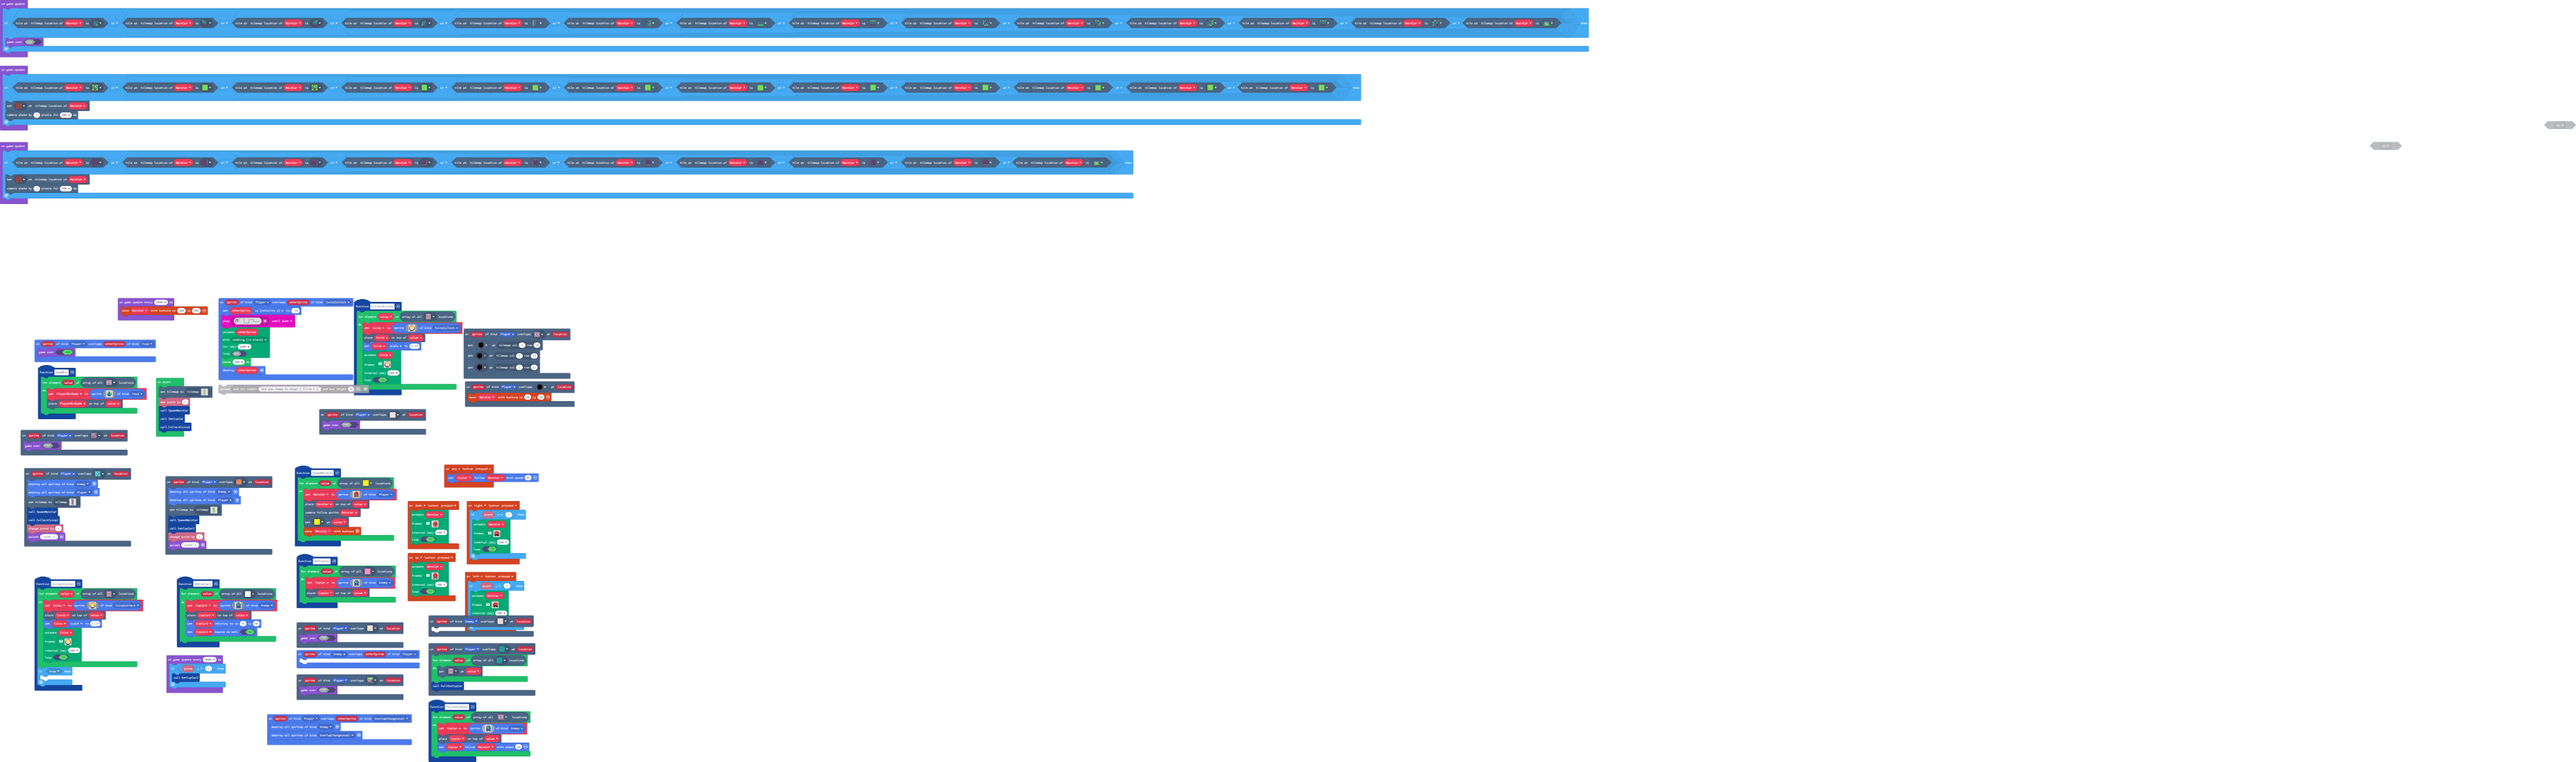
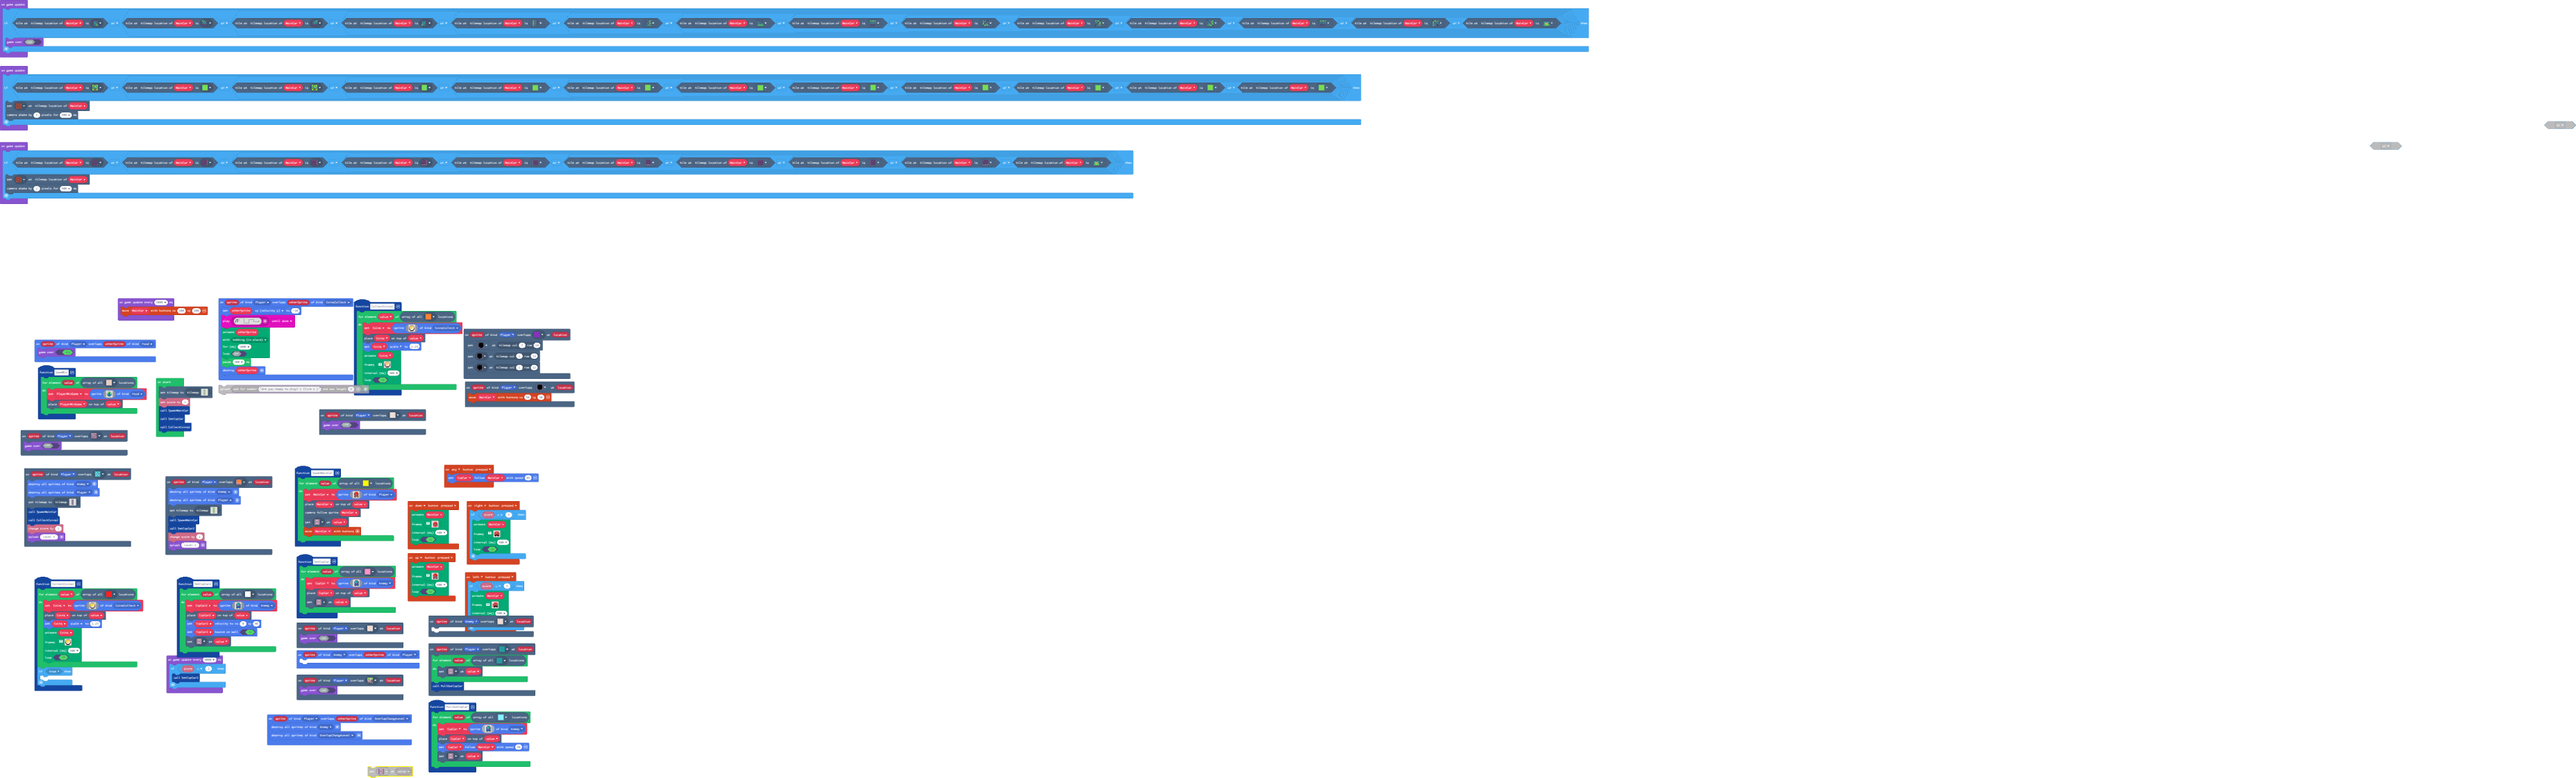
Update main.blocks, main.ts, tilemap.g.jres, tilemap.g.ts

Changed region(s): [[0.0, 0.3716, 0.248, 1.0], [0.0, 0.031, 0.6199, 0.2787], [0.9919, 0.1548, 1.0, 0.1858]]

diff --git a/tilemap.g.ts b/tilemap.g.ts
@@ -23,8 +23,6 @@ namespace myTiles {
     //% fixedInstance jres blockIdentity=images._tile
     export const tile11 = image.ofBuffer(hex``);
     //% fixedInstance jres blockIdentity=images._tile
-    export const tile13 = image.ofBuffer(hex``);
-    //% fixedInstance jres blockIdentity=images._tile
     export const tile15 = image.ofBuffer(hex``);
     //% fixedInstance jres blockIdentity=images._tile
     export const tile18 = image.ofBuffer(hex``);
@@ -39,23 +37,13 @@ namespace myTiles {
     //% fixedInstance jres blockIdentity=images._tile
     export const tile23 = image.ofBuffer(hex``);
     //% fixedInstance jres blockIdentity=images._tile
-    export const tile22 = image.ofBuffer(hex``);
-    //% fixedInstance jres blockIdentity=images._tile
     export const tile21 = image.ofBuffer(hex``);
-    //% fixedInstance jres blockIdentity=images._tile
-    export const tile24 = image.ofBuffer(hex``);
     //% fixedInstance jres blockIdentity=images._tile
     export const tile27 = image.ofBuffer(hex``);
     //% fixedInstance jres blockIdentity=images._tile
     export const tile28 = image.ofBuffer(hex``);
     //% fixedInstance jres blockIdentity=images._tile
     export const tile29 = image.ofBuffer(hex``);
-    //% fixedInstance jres blockIdentity=images._tile
-    export const tile30 = image.ofBuffer(hex``);
-    //% fixedInstance jres blockIdentity=images._tile
-    export const tile31 = image.ofBuffer(hex``);
-    //% fixedInstance jres blockIdentity=images._tile
-    export const tile32 = image.ofBuffer(hex``);
     //% fixedInstance jres blockIdentity=images._tile
     export const tile25 = image.ofBuffer(hex``);
     //% fixedInstance jres blockIdentity=images._tile
@@ -72,6 +60,18 @@ namespace myTiles {
     export const tile10 = image.ofBuffer(hex``);
     //% fixedInstance jres blockIdentity=images._tile
     export const tile14 = image.ofBuffer(hex``);
+    //% fixedInstance jres blockIdentity=images._tile
+    export const tile13 = image.ofBuffer(hex``);
+    //% fixedInstance jres blockIdentity=images._tile
+    export const tile22 = image.ofBuffer(hex``);
+    //% fixedInstance jres blockIdentity=images._tile
+    export const tile24 = image.ofBuffer(hex``);
+    //% fixedInstance jres blockIdentity=images._tile
+    export const tile30 = image.ofBuffer(hex``);
+    //% fixedInstance jres blockIdentity=images._tile
+    export const tile31 = image.ofBuffer(hex``);
+    //% fixedInstance jres blockIdentity=images._tile
+    export const tile32 = image.ofBuffer(hex``);
 
     helpers._registerFactory("tilemap", function(name: string) {
         switch(helpers.stringTrim(name)) {
@@ -132,6 +132,47 @@ namespace myTiles {
 . . . . . . . . . . . . . . . . 
 . . . . . . . . . . . . . . . . 
 `, [myTiles.transparency16], TileScale.Sixteen);
+            case "level4":
[1 lines of base64/hex data omitted]
+.............
+.............
+.............
+.............
+.............
+.............
+.............
+.............
+.............
+.............
+.............
+.............
+.............
+.............
+.............
+.............
+.............
+.............
+.............
+.............
+.............
+.............
+.............
+.............
+.............
+.............
+.............
+.............
+.............
+.............
+.............
+.............
+.............
+.............
+.............
+.............
+.............
+.............
+`, [myTiles.transparency16,myTiles.tile4,myTiles.tile6,myTiles.tile8,myTiles.tile9,myTiles.tile15,myTiles.tile26,myTiles.tile1,myTiles.tile3,sprites.skillmap.islandTile5,sprites.skillmap.islandTile3,sprites.skillmap.islandTile1,sprites.skillmap.islandTile4,myTiles.tile28,myTiles.tile31,myTiles.tile33,myTiles.tile14,myTiles.tile10,myTiles.tile12], TileScale.Sixteen);
             case "level1":
[1 lines of base64/hex data omitted]
 ............
@@ -213,48 +254,7 @@ namespace myTiles {
 ..........
 ..........
 ..........
-`, [myTiles.transparency16,sprites.vehicle.roadVertical,sprites.vehicle.roadHorizontal,sprites.skillmap.islandTile1,sprites.skillmap.islandTile4,sprites.skillmap.islandTile3,sprites.skillmap.islandTile5,myTiles.tile1,sprites.builtin.brick,myTiles.tile3,myTiles.tile4,myTiles.tile6,myTiles.tile8,myTiles.tile9,myTiles.tile10,myTiles.tile13,myTiles.tile14,myTiles.tile15,myTiles.tile16,myTiles.tile17,myTiles.tile20,myTiles.tile22,myTiles.tile24,myTiles.tile25,myTiles.tile31,myTiles.tile33,myTiles.tile5], TileScale.Sixteen);
-            case "level4":
[1 lines of base64/hex data omitted]
-.............
-.............
-.............
-.............
-.............
-.............
-.............
-.............
-.............
-.............
-.............
-.............
-.............
-.............
-.............
-.............
-.............
-.............
-.............
-.............
-.............
-.............
-.............
-.............
-.............
-.............
-.............
-.............
-.............
-.............
-.............
-.............
-.............
-.............
-.............
-.............
-.............
-.............
-`, [myTiles.transparency16,myTiles.tile4,myTiles.tile6,myTiles.tile8,myTiles.tile9,myTiles.tile15,myTiles.tile26,myTiles.tile1,myTiles.tile3,sprites.skillmap.islandTile5,sprites.skillmap.islandTile3,sprites.skillmap.islandTile1,sprites.skillmap.islandTile4,myTiles.tile28,myTiles.tile31,myTiles.tile33,myTiles.tile14,myTiles.tile10,myTiles.tile12], TileScale.Sixteen);
+`, [myTiles.transparency16,sprites.vehicle.roadVertical,sprites.vehicle.roadHorizontal,sprites.skillmap.islandTile1,sprites.skillmap.islandTile4,sprites.skillmap.islandTile3,sprites.skillmap.islandTile5,myTiles.tile1,sprites.builtin.brick,myTiles.tile3,myTiles.tile4,myTiles.tile6,myTiles.tile8,myTiles.tile9,myTiles.tile10,myTiles.tile13,myTiles.tile14,myTiles.tile15,myTiles.tile16,myTiles.tile17,myTiles.tile20,myTiles.tile22,myTiles.tile24,myTiles.tile25,myTiles.tile31,myTiles.tile33,myTiles.tile5,myTiles.tile32], TileScale.Sixteen);
         }
         return null;
     })
@@ -282,8 +282,6 @@ namespace myTiles {
             case "tile5":return tile5;
             case "myTile9":
             case "tile11":return tile11;
-            case "CopCarPullOut":
-            case "tile13":return tile13;
             case "myTile13":
             case "tile15":return tile15;
             case "myTile11":
@@ -298,24 +296,14 @@ namespace myTiles {
             case "tile20":return tile20;
             case "myTile17":
             case "tile23":return tile23;
-            case "myTile16":
-            case "tile22":return tile22;
             case "myTile15":
             case "tile21":return tile21;
-            case "myTile18":
-            case "tile24":return tile24;
             case "myTile21":
             case "tile27":return tile27;
             case "myTile22":
             case "tile28":return tile28;
             case "myTile23":
             case "tile29":return tile29;
-            case "myTile24":
-            case "tile30":return tile30;
-            case "myTile25":
-            case "tile31":return tile31;
-            case "myTile26":
-            case "tile32":return tile32;
             case "myTile19":
             case "tile25":return tile25;
             case "myTile27":
@@ -332,6 +320,18 @@ namespace myTiles {
             case "tile10":return tile10;
             case "EnemyOverlap1":
             case "tile14":return tile14;
+            case "CopCarPullOut":
+            case "tile13":return tile13;
+            case "myTile16":
+            case "tile22":return tile22;
+            case "myTile18":
+            case "tile24":return tile24;
+            case "myTile24":
+            case "tile30":return tile30;
+            case "myTile25":
+            case "tile31":return tile31;
+            case "myTile26":
+            case "tile32":return tile32;
         }
         return null;
     })

diff --git a/main.ts b/main.ts
@@ -172,6 +172,7 @@ function PullOutCopCar () {
             `, SpriteKind.Enemy)
         tiles.placeOnTile(CopCar, value)
         CopCar.follow(MainCar, 50)
+        tiles.setTileAt(value, sprites.vehicle.roadVertical)
     }
 }
 controller.down.onEvent(ControllerButtonEvent.Pressed, function () {
@@ -298,6 +299,7 @@ function SetCopCar2 () {
         tiles.placeOnTile(CopCar2, value)
         CopCar2.setVelocity(0, 40)
         CopCar2.setBounceOnWall(true)
+        tiles.setTileAt(value, sprites.vehicle.roadVertical)
     }
 }
 function GameWin () {
@@ -426,6 +428,7 @@ function SetCopCar () {
             . . . . f f . . . . . . f f . . 
             `, SpriteKind.Enemy)
         tiles.placeOnTile(CopCar, value)
+        tiles.setTileAt(value, sprites.vehicle.roadVertical)
     }
 }
 function SpawnMainCar () {
@@ -450,7 +453,7 @@ function SpawnMainCar () {
             `, SpriteKind.Player)
         tiles.placeOnTile(MainCar, value)
         scene.cameraFollowSprite(MainCar)
-        tiles.setTileAt(value, assets.tile`myTile27`)
+        tiles.setTileAt(value, sprites.vehicle.roadVertical)
         controller.moveSprite(MainCar)
     }
 }
